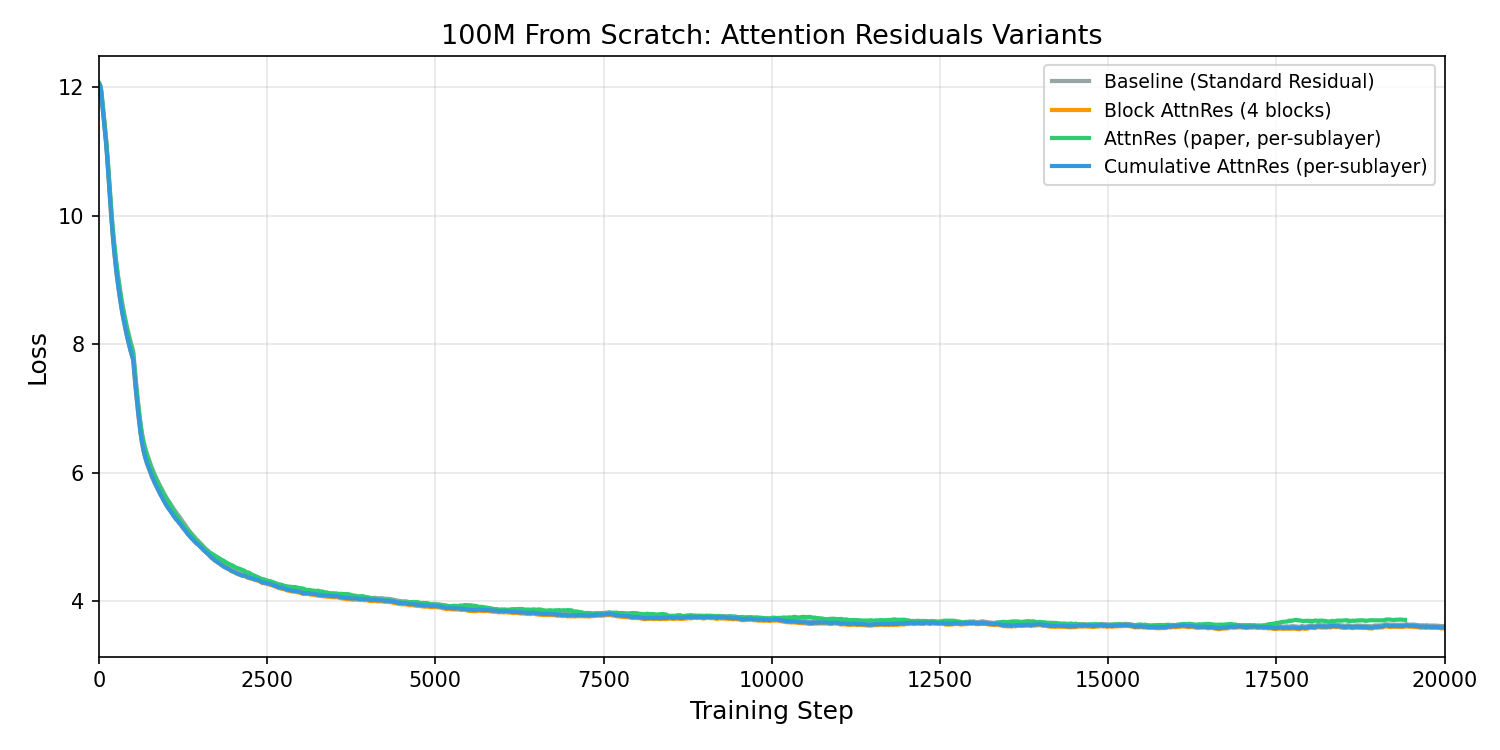
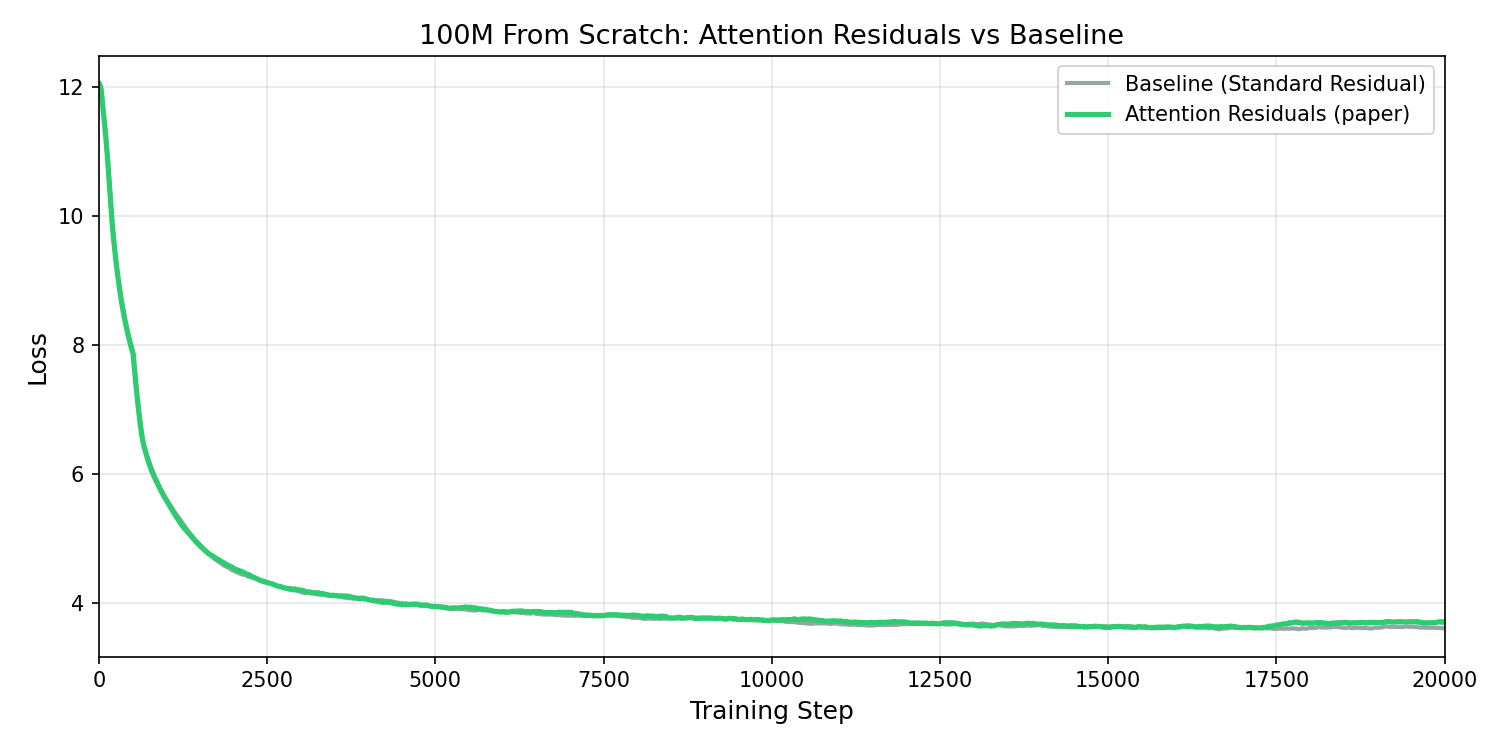
Simplify figures and tables to AttnRes vs Baseline only

diff --git a/README.md b/README.md
@@ -13,8 +13,7 @@ An open-source implementation of [Attention Residuals](https://arxiv.org/abs/260
 | Model | Train Loss | WikiText-2 PPL | LAMBADA Acc | HellaSwag Acc |
 |-------|-----------|----------------|-------------|---------------|
 | Baseline (Standard Residual) | 3.303 | 60.21 | 0.082 | 0.325 |
-| Block AttnRes (8 blocks) | 3.245 | 53.87 | 0.110 | 0.335 |
-| **AttnRes (paper, per-sublayer)** | **3.350** | **55.69** | **0.114** | **0.340** |
+| **Attention Residuals** | **3.350** | **55.69** | **0.114** | **0.340** |
 
 ### 100M Model (d=512, L=12, 20k steps)
 
@@ -25,8 +24,7 @@ An open-source implementation of [Attention Residuals](https://arxiv.org/abs/260
 | Model | Train Loss | WikiText-2 PPL | LAMBADA Acc | HellaSwag Acc |
 |-------|-----------|----------------|-------------|---------------|
 | Baseline (Standard Residual) | 3.523 | 76.76 | 0.076 | 0.315 |
-| Block AttnRes (4 blocks) | 3.489 | 70.82 | 0.084 | 0.340 |
-| **AttnRes (paper, per-sublayer)** | *running* | — | — | — |
+| **Attention Residuals** | — | — | — | — |
 
 For reference, the pretrained Qwen3-0.6B (15T tokens) achieves PPL 20.97, LAMBADA 0.364, HellaSwag 0.410.
 
